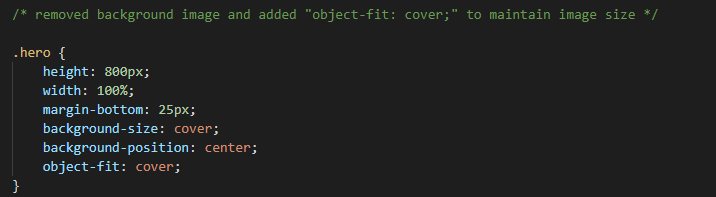
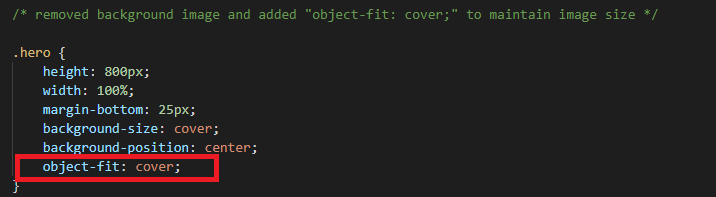
saving changes made to readme

Changed region(s): [[0.0, 0.7614, 0.3073, 0.9442]]

diff --git a/README.md b/README.md
@@ -1,6 +1,6 @@
 
 
-Ernest's Code Refractor Readme. 
+# Ernest's Code Refractor Readme.
 
 This is a detailed description that will outline the first project of this BootCamp. The project is a code refractor operation, which a client wanted me to make his code more appropriate in regards to Semantic HTML. The timeline for this project is 1 week, and I will go in and make necessary changes to the client's code through my extensive experience from the UC Berkeley Extension Institution and along with my core analytical problem solving skills. In addition I will be referencing information from sources that illustrate the correct practices for refractoring HTML. 
 
@@ -9,39 +9,54 @@ After delivering the finshed product the Client will subquently recieve and Invo
 If you have any questions feel free to contact me via Slack. 
 
 
-HTML Code REFRACTOR:
+## HTML Code REFRACTOR:
 
 On Tues. Sept. 8th I recieved the HTML code from Client. The code was filled with "div" tags and wasn't organized in a way for non-technical professtionals to understand. I provide a snap shot below to illustrate the actual code that I recieved. 
 
 Snap Shot ---- Of original code ------
 
 
-Refractor Operation:
+##Refractor Operation:
 
 1. Filter out unecessary div tags for the core sections and replace them with more non-technical friendly tags for any reader to understand
 
 
-    Header Tags - Used the appropriate "Header" tag to illustrate the header area. 
+    **Header Tags - Used the appropriate "Header" tag to illustrate the header area.** 
 
-   --- Insert Image ---
 
-    Main Tags - Used main tags to reveal the main content of the page. 
+
+   ![Header Tag Image Example](https://raw.githubusercontent.com/HEEM86/Code-Refractor-EW/master/README%20images/header%20tag.png)
+
+
+
+    **Main Tags - Used main tags to reveal the main content of the page.**
+
+
     
-    --- Insert Image ---
+   ![Main Tag Image Example](https://raw.githubusercontent.com/HEEM86/Code-Refractor-EW/master/README%20images/main%20article%20tags.png)
+
+
     
-    Article Tags - Used these tags to identify the article or the space with important content 
-
-    --- Insert Image ---
-
-    Aside Tags - I used these tags to associate key content on the side that supplemented the main content
-
-    --- Insert Image ---
+    **Article Tags - Used these tags to identify the article or the space with important content**
 
 
-    Added the image file to the HTML and removed it from the CSS. Just for a cleaner look.
+
+    ![Article Tag Image Example](https://raw.githubusercontent.com/HEEM86/Code-Refractor-EW/master/README%20images/main%20article%20tags.png)
 
 
-    --- Insert Image ---
+
+    **Aside Tags - I used these tags to associate key content on the side that supplemented the main content**
+
+
+
+    ![Aside Tags Image Example](https://raw.githubusercontent.com/HEEM86/Code-Refractor-EW/master/README%20images/aside%20tag.png)
+
+
+
+    **Added the image to the HTML and removed it from the CSS. Just for a cleaner look.**
+
+
+    ![Added hero image to HTML](https://raw.githubusercontent.com/HEEM86/Code-Refractor-EW/master/README%20images/html%20hero%20img%20.png)
 
     
 
@@ -49,24 +64,45 @@ Illustration of these sections with descriptive tags in general is very helpful 
 
 
 
-2. Make changes to CSS the coressponds with the changes with the HTML above. 
+2. Make changes to CSS the coressponds with the changes with the HTML above.
 
 
 
-    Made the header CSS class communicate with the HTML by removing the periods. 
+    **Made the header CSS class communicate with the HTML by removing the periods.** 
 
-    --- Insert Image ---
+    Removed periods from the following header classes
 
-    Removed Background image link and added "object-fit: cover to maintain hero image from stretch
-
-
-    --- Insert Image ---
+    ![CSS Header class changes](https://raw.githubusercontent.com/HEEM86/Code-Refractor-EW/master/README%20images/header%20css.png)
 
 
-    Created 2 aside sections and slacked out the other sections to consoladated the code
+    **Removed Background image link and added "object-fit: cover to maintain hero image from stretch**
+
+    B
+
+    ![CSS changes to hero section](https://raw.githubusercontent.com/HEEM86/Code-Refractor-EW/master/README%20images/hero%20css.png)
+
+    Changes Made
+
+    ![After changes made to hero section](https://raw.githubusercontent.com/HEEM86/Code-Refractor-EW/master/README%20images/link%20and%20object%20fit%20cover.png)
 
 
-    --- Insert Image ---
+
+     **Created 3 aside sections and slacked out the other sections to consoladated the code**
+
+
+    
+    Added "Aside" class for h3 section
+
+   ![CSS Aside class "h3" dchanges](https://raw.githubusercontent.com/HEEM86/Code-Refractor-EW/master/README%20images/aside%20css%20h3%20tags.png)
+
+
+    Added "Aside class for image (img) section
+
+    ![CSS Aside class img section changes](https://raw.githubusercontent.com/HEEM86/Code-Refractor-EW/master/README%20images/aside%20css%20img%20tags.png)
+
+    Added "Aside" class for this section
+
+     ![CSS Adding Aside class for this section](https://raw.githubusercontent.com/HEEM86/Code-Refractor-EW/master/README%20images/aside%20css1.png)
 
 
 
